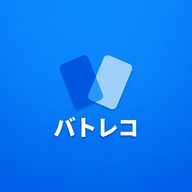
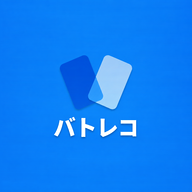
update

Changed region(s): [[0.0, 0.9375, 1.0, 1.0]]

diff --git a/src/app/manifest.ts b/src/app/manifest.ts
@@ -18,23 +18,44 @@ export default function manifest(): MetadataRoute.Manifest {
     description: "ポケカプレイヤーのための対戦記録サービス",
     start_url: "/",
     display: "standalone",
-    // background_color は PWA 起動スプラッシュの地色。**アイコン画像の地色に合わせる**こと。
-    // ここをアイコンの地色からズラすと、アイコンの外形(OS スプラッシュでは円マスク、Chrome の
-    // スプラッシュでは角丸四角)が地色との段差として浮かび上がり、2枚のスプラッシュが切り替わる
-    // 瞬間に「丸が四角に変わって縮む」ように見える。値は icon-*.png / maskable_icon_*.png の
-    // 縦中央の地色(グラデーションの中間色)。アイコンを描き直したらこの値も測り直す。
+    // background_color は PWA 起動スプラッシュの地色。**manifest 用アイコンの地色と完全に同じ値**
+    // にすること。ここがズレると、アイコンの外形(OS スプラッシュでは直径 160dp の円、Chrome の
+    // スプラッシュでは 128dp の四角)が地色との段差として浮かび上がり、2枚のスプラッシュが
+    // 切り替わる瞬間に「丸が四角に変わって縮む」ように見える。
+    // splash_icon-*.png / maskable_icon_*.png は、この値の単色を地色にしてある(下の icons 参照)。
     background_color: env == "dev" ? "#FB7A06" : "#0779F6",
     // theme_color はアプリ表示中のステータスバー色。ヘッダーのグラデーション始点
     // (本番は blue-600)に合わせる。dev環境は一目で区別できるようオレンジにする
     theme_color: env == "dev" ? "#EA580C" : "#2563EB",
-    // purpose:"any" のアイコンは Chrome の起動スプラッシュで 128dp の四角として描かれるのに対し、
-    // purpose:"maskable" は Android 12 以降の OS スプラッシュで「240dp 枠の中央・直径 160dp の円」に
-    // マスクして描かれる。同じ絵柄を同じ余白で置くと、ロゴの実効サイズが約 76dp と約 103dp に食い違い、
-    // 先に出る OS スプラッシュから Chrome のスプラッシュへ移る瞬間にロゴが縮んで見える。
-    // そのため any 側は、ロゴを枠いっぱい(占有率 約80%)まで寄せた splash_icon-*.png を専用に用意し、
-    // maskable 側の実効サイズ(約103dp)と揃えている。maskable の余白は円マスクで切られないための
-    // ものなので詰められない。片方だけ差し替えるとまたズレるため、両者は必ずセットで見直すこと。
-    // アプリ内のロゴ表示(OGP画像・シェア画像・PWAバナー)は従来どおり icon-*.png を使う。
+    /*
+     * Android の PWA 起動では、ロゴ画面が2枚続けて出る。
+     *   1. OS スプラッシュ(Android 12 以降) … purpose:"maskable" を「240dp 枠の中央・
+     *      直径 160dp の円」にマスクして描く
+     *   2. Chrome スプラッシュ … purpose:"any" を 128dp の四角として描く
+     * 見た目が食い違っていると、1 から 2 へ移る瞬間に「ロゴがもう一度描き直された」ように見える。
+     * ページ側では何も起きていないので、揃えるべき条件はこの manifest とアイコン画像だけで決まる。
+     *
+     * 揃えるのは次の3つ。どれか1つでも崩れると再発する。
+     *
+     * (a) ロゴの実効サイズ … 同じ絵柄を同じ余白で置くと 約76dp と 約103dp に食い違う。
+     *     any 側はロゴを枠いっぱい(占有率 約80%)に寄せた splash_icon-*.png を専用に用意し、
+     *     maskable 側(占有率 約43% → 240dp×0.43 = 約103dp)と揃えてある。maskable の余白は
+     *     円マスクで切られないためのものなので詰められない。動かすのは常に any 側。
+     *
+     * (b) 地色 … **両者とも background_color と同じ単色**にしてある。グラデーションが載っていると、
+     *     円(直径 160dp)と四角(128dp)という外形の違いがそのまま地色の段差として見え、
+     *     ロゴ自体が同じ位置・同じ大きさでも「淡い円が小さい四角に変わる」動きになる
+     *     (2026-09-08 の実測: 円の下端で G が背景 -19、四角の下端で -11 と差があった)。
+     *     アイコンを描き直すときも、この2枚だけは地色を単色に潰すこと。
+     *
+     * (c) ロゴの解像感 … maskable は 240dp 枠ぶんに拡大されるため、画像内のロゴが小さいと
+     *     引き伸ばされてボケ、シャープな any 側と並べたときに差が出る。maskable だけ
+     *     1024x1024 を用意してあるのはこのため(1024×0.43 = 440px を 720px 枠へ縮小して描く)。
+     *     192 は低密度端末のランチャー用で、起動スプラッシュには選ばれない。
+     *
+     * アプリ内のロゴ表示(OGP画像・シェア画像・PWAバナー)は従来どおり icon-*.png を使う。
+     * こちらはグラデーションのままでよく、manifest 用と兼用にしないこと。
+     */
     icons:
       env == "dev"
         ? [
@@ -57,8 +78,8 @@ export default function manifest(): MetadataRoute.Manifest {
               purpose: "maskable",
             },
             {
-              src: "/maskable_icon_dev_x512.png",
-              sizes: "512x512",
+              src: "/maskable_icon_dev_x1024.png",
+              sizes: "1024x1024",
               type: "image/png",
               purpose: "maskable",
             },
@@ -83,8 +104,8 @@ export default function manifest(): MetadataRoute.Manifest {
               purpose: "maskable",
             },
             {
-              src: "/maskable_icon_x512.png",
-              sizes: "512x512",
+              src: "/maskable_icon_x1024.png",
+              sizes: "1024x1024",
               type: "image/png",
               purpose: "maskable",
             },

diff --git a/src/app/records/(index)/loading.tsx b/src/app/records/(index)/loading.tsx
@@ -2,8 +2,15 @@ import FixedTabBarSkeleton from "@app/components/molecules/Skeleton/FixedTabBarS
 import FloatingButtonClearance from "@app/components/atoms/Floating/FloatingButtonClearance";
 import { RecordCardSkeletons } from "@app/components/organisms/Record/Skeleton/RecordCardSkeleton";
 
-// /records の Suspense 境界。実ページ(TemplateRecords)と同じ「上部固定タブ＋記録カード一覧」の
-// 枠を即座に見せ、サーバレンダリング待ちの間に画面が固まって見えるのを防ぐ。
+/*
+ * /records の Suspense 境界。実ページ(TemplateRecords)と同じ「上部固定タブ＋記録カード一覧」の
+ * 枠を即座に見せ、サーバレンダリング待ちの間に画面が固まって見えるのを防ぐ。
+ *
+ * 置き場所が (index) グループなのは、この骨格を /records だけに効かせるため
+ * (/cityleague_results と同じ理由)。records/ 直下に置くと create・quick・[id] にも継承され、
+ * それぞれが自前の loading.tsx を持っていても、子セグメントのツリーが組み上がるまでは
+ * 外側にあるこの境界が使われて、記録一覧のカード骨格が先に出てしまう。
+ */
 export default function Loading() {
   return (
     <>

diff --git a/src/app/cityleague_results/months/(index)/loading.tsx b/src/app/cityleague_results/months/(index)/loading.tsx
@@ -1,0 +1,13 @@
+import CityleagueIndexSkeleton from "@app/components/organisms/Cityleague/Skeleton/CityleagueIndexSkeleton";
+
+// /cityleague_results/months の Suspense 境界。
+// 役割と rowCount の決め方は seasons/(index)/loading.tsx と同じ（結果がある開催月は35件）。
+// 開催月はサブタイトル（期間）を持たないため showSubtitle は付けない。
+//
+// 置き場所が (index) グループなのは、この骨格を索引ページだけに効かせるため。
+// 直下に置くと詳細ページ(子セグメント)にも継承され、詳細側が自前の loading.tsx を
+// 持っていても打ち消せない(子のツリーが組み上がるまで外側のこの境界が使われるため、
+// 索引の骨格が先に出てから詳細の骨格に差し替わる)。
+export default function Loading() {
+  return <CityleagueIndexSkeleton rowCount={35} showSubtitle={false} />;
+}

diff --git a/src/app/cityleague_results/environments/[id]/loading.tsx b/src/app/cityleague_results/environments/[id]/loading.tsx
@@ -4,8 +4,9 @@ import CityleagueEventListSkeleton from "@app/components/organisms/Cityleague/Sk
 // getCityleagueEventsInTerm（イベント全件＋期間内イベントの突き合わせ）の
 // 完了を待つ間の「画面が固まって見える」体感を無くす。
 //
-// 索引側（例: seasons/loading.tsx）は1つ上のセグメントに置くため、これが無いと
-// 詳細ページにも索引の骨格が出てしまう。中身に合わせてここで上書きする。
+// 索引側の loading.tsx は (index) グループに閉じてあるので、ここには継承されない。
+// 索引側を直下(例: seasons/loading.tsx)へ戻すと、この骨格より先に索引の骨格が出る。
+// 詳細側にこのファイルを置いても打ち消せない(2026-09-08 実測)ので、索引側を動かさないこと。
 export default function Loading() {
   return <CityleagueEventListSkeleton />;
 }

diff --git a/src/app/cityleague_results/months/[month]/loading.tsx b/src/app/cityleague_results/months/[month]/loading.tsx
@@ -4,8 +4,9 @@ import CityleagueEventListSkeleton from "@app/components/organisms/Cityleague/Sk
 // getCityleagueEventsInTerm（イベント全件＋期間内イベントの突き合わせ）の
 // 完了を待つ間の「画面が固まって見える」体感を無くす。
 //
-// 索引側（例: seasons/loading.tsx）は1つ上のセグメントに置くため、これが無いと
-// 詳細ページにも索引の骨格が出てしまう。中身に合わせてここで上書きする。
+// 索引側の loading.tsx は (index) グループに閉じてあるので、ここには継承されない。
+// 索引側を直下(例: seasons/loading.tsx)へ戻すと、この骨格より先に索引の骨格が出る。
+// 詳細側にこのファイルを置いても打ち消せない(2026-09-08 実測)ので、索引側を動かさないこと。
 export default function Loading() {
   return <CityleagueEventListSkeleton />;
 }

diff --git a/src/app/cityleague_results/seasons/[id]/loading.tsx b/src/app/cityleague_results/seasons/[id]/loading.tsx
@@ -4,8 +4,9 @@ import CityleagueEventListSkeleton from "@app/components/organisms/Cityleague/Sk
 // getCityleagueEventsInTerm（イベント全件＋期間内イベントの突き合わせ）の
 // 完了を待つ間の「画面が固まって見える」体感を無くす。
 //
-// 索引側（例: seasons/loading.tsx）は1つ上のセグメントに置くため、これが無いと
-// 詳細ページにも索引の骨格が出てしまう。中身に合わせてここで上書きする。
+// 索引側の loading.tsx は (index) グループに閉じてあるので、ここには継承されない。
+// 索引側を直下(例: seasons/loading.tsx)へ戻すと、この骨格より先に索引の骨格が出る。
+// 詳細側にこのファイルを置いても打ち消せない(2026-09-08 実測)ので、索引側を動かさないこと。
 export default function Loading() {
   return <CityleagueEventListSkeleton />;
 }

diff --git a/src/app/cityleague_results/seasons/(index)/loading.tsx b/src/app/cityleague_results/seasons/(index)/loading.tsx
@@ -9,6 +9,11 @@ import CityleagueIndexSkeleton from "@app/components/organisms/Cityleague/Skelet
 //
 // rowCount は現在の実データの行数（結果があるシーズン16件）に合わせている。
 // 骨格と実体で文書の高さが変わらないほど、切り替わりのガタつきが小さくなる。
+//
+// 置き場所が (index) グループなのは、この骨格を索引ページだけに効かせるため。
+// 直下に置くと詳細ページ(子セグメント)にも継承され、詳細側が自前の loading.tsx を
+// 持っていても打ち消せない(子のツリーが組み上がるまで外側のこの境界が使われるため、
+// 索引の骨格が先に出てから詳細の骨格に差し替わる)。
 export default function Loading() {
   return <CityleagueIndexSkeleton rowCount={16} showSubtitle />;
 }

diff --git a/src/app/cityleague_results/championsleagues/[id]/(index)/loading.tsx b/src/app/cityleague_results/championsleagues/[id]/(index)/loading.tsx
@@ -9,6 +9,11 @@ import CityleagueIndexSkeleton from "@app/components/organisms/Cityleague/Skelet
 //
 // 中身はリーグ区分の索引（ヘッダー＋区分一覧）。rowCount は実データの区分数
 // （多くの大会でマスター・シニア・ジュニアの3件）に合わせている。
+//
+// 置き場所が (index) グループなのは、この骨格を索引ページだけに効かせるため。
+// 直下に置くと詳細ページ(子セグメント)にも継承され、詳細側が自前の loading.tsx を
+// 持っていても打ち消せない(子のツリーが組み上がるまで外側のこの境界が使われるため、
+// 索引の骨格が先に出てから詳細の骨格に差し替わる)。
 export default function Loading() {
   return <CityleagueIndexSkeleton rowCount={3} showSubtitle />;
 }

diff --git a/src/app/cityleague_results/environments/(index)/loading.tsx b/src/app/cityleague_results/environments/(index)/loading.tsx
@@ -1,0 +1,12 @@
+import CityleagueIndexSkeleton from "@app/components/organisms/Cityleague/Skeleton/CityleagueIndexSkeleton";
+
+// /cityleague_results/environments の Suspense 境界。
+// 役割と rowCount の決め方は seasons/(index)/loading.tsx と同じ（結果がある環境は25件）。
+//
+// 置き場所が (index) グループなのは、この骨格を索引ページだけに効かせるため。
+// 直下に置くと詳細ページ(子セグメント)にも継承され、詳細側が自前の loading.tsx を
+// 持っていても打ち消せない(子のツリーが組み上がるまで外側のこの境界が使われるため、
+// 索引の骨格が先に出てから詳細の骨格に差し替わる)。
+export default function Loading() {
+  return <CityleagueIndexSkeleton rowCount={25} showSubtitle />;
+}

diff --git a/src/app/cityleague_results/championsleagues/(index)/loading.tsx b/src/app/cityleague_results/championsleagues/(index)/loading.tsx
@@ -8,6 +8,11 @@ import CityleagueIndexSkeleton from "@app/components/organisms/Cityleague/Skelet
 // サーバの描画が終わるまで画面が前のページのまま固まる。
 //
 // rowCount は現在の実データ（結果が登録済みの大会23件）に合わせている。
+//
+// 置き場所が (index) グループなのは、この骨格を索引ページだけに効かせるため。
+// 直下に置くと詳細ページ(子セグメント)にも継承され、詳細側が自前の loading.tsx を
+// 持っていても打ち消せない(子のツリーが組み上がるまで外側のこの境界が使われるため、
+// 索引の骨格が先に出てから詳細の骨格に差し替わる)。
 export default function Loading() {
   return <CityleagueIndexSkeleton rowCount={23} showSubtitle />;
 }
